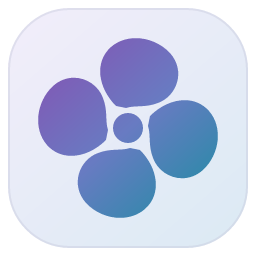
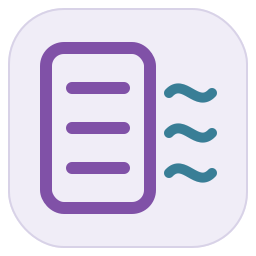
Replace ventilation artwork with clear grille and airflow mark

diff --git a/tools/render_branding.py b/tools/render_branding.py
@@ -1,0 +1,15 @@
+"""Render canonical SVG brand sources to Home Assistant's PNG variants.
+
+Run: uv run --with cairosvg==2.9.1 python tools/render_branding.py
+Only needed when the editable SVG artwork changes, not at install time.
+"""
+from pathlib import Path
+import cairosvg
+
+ROOT = Path(__file__).resolve().parents[1]
+BRAND = ROOT / "custom_components" / "vallox_autopilot" / "brand"
+for name in ("icon", "dark_icon"):
+    for suffix, size in (("", 256), ("@2x", 512)):
+        cairosvg.svg2png(url=str(BRAND / f"{name}.svg"),
+                        write_to=str(BRAND / f"{name}{suffix}.png"),
+                        output_width=size, output_height=size)

diff --git a/custom_components/vallox_autopilot/const.py b/custom_components/vallox_autopilot/const.py
@@ -1,7 +1,7 @@
 """Public integration constants; no installation-specific entities."""
 
 DOMAIN = "vallox_autopilot"
-VERSION = "0.7.4"
+VERSION = "0.7.5"
 PLATFORMS = ["sensor", "switch", "button", "number", "binary_sensor"]
 CARD_URL = "/vallox_autopilot/card.js"
 DEFAULTS = {

diff --git a/README.md b/README.md
@@ -9,7 +9,7 @@ A Home Assistant integration and bundled dashboard card for gradual, configurabl
 1. Install the native Vallox integration and confirm its fan, humidity, CO₂ and temperature entities work.
 2. Add `https://github.com/bitosome/vallox-autopilot` to HACS as an **Integration**, download and restart Home Assistant.
 3. Add **Vallox Autopilot** in Settings → Devices & services. Select the native fan, dry-house humidity sensors, shower humidity, CO₂ and heat-recovery/outdoor sensors. Leave the occupancy input empty to use the integration’s shared Home mode switch (`on` = Home, `off` = Away). For sauna detection, choose heater current sensors in amperes, or an existing external sauna binary sensor. Keep shower sensors out of the dry-house group.
-4. Add the **Vallox Autopilot** dashboard card and select its Status sensor. The module registers automatically; YAML dashboards can load `/vallox_autopilot/card.js?v=0.7.4` as a JavaScript module.
+4. Add the **Vallox Autopilot** dashboard card and select its Status sensor. The module registers automatically; YAML dashboards can load `/vallox_autopilot/card.js?v=0.7.5` as a JavaScript module.
 5. Review settings before turning Auto on. New controllers start **off**.
 
 ```yaml
@@ -79,3 +79,7 @@ The main percentage is the native fan entity's acknowledged `percentage`, labell
 In the integration's entity mappings, optionally select the native **Supply fan speed** and **Extract fan speed** sensors (unit `rpm`) and **Post-heater** binary sensor. Enable those native entities first if they are disabled. The card shows their independent readings beneath the setting. Post-heater Active/Off means the native post-heating output state, not heater configuration or power consumption. Unavailable telemetry is never interpreted as stopped/off and does not affect automatic demand.
 
 Vallox also reports a separate operating percentage, retained in Details and History. Native CO₂/humidity regulation or protections may make this differ from the configured setting. The decorative fan follows native operating telemetry and, when RPM inputs are mapped, requires measured rotation. It is not a literal RPM display. The read-only Fan setting sensor records the acknowledged native percentage for Home Assistant's native history graph; its history starts when this version is installed, without fabricated backfill.
+
+## Integration artwork
+
+The integration uses a compact ventilation grille and airflow mark, with native Home Assistant light/dark and high-resolution brand assets. Editable SVG sources live in `custom_components/vallox_autopilot/brand/`; rebuild PNGs with `uv run --with cairosvg==2.9.1 python tools/render_branding.py`. This is project artwork, not the official Vallox manufacturer logo.

diff --git a/CHANGELOG.md b/CHANGELOG.md
@@ -1,5 +1,10 @@
 # Changelog
 
+## 0.7.5 — 2026-11-01
+
+- Replace the ambiguous fan artwork with a clear ventilation grille and airflow mark. Supply matching light/dark, standard and high-resolution PNGs from editable SVG sources.
+- Preserve all ventilation controls, card behavior and integration settings.
+
 ## 0.7.4 — 2026-10-26
 
 - Bound activation glows to the outer dashboard card so they cannot wash over neighboring cards. Keep internal tile gaps, focus rings and native top-layer dialogs visible.
